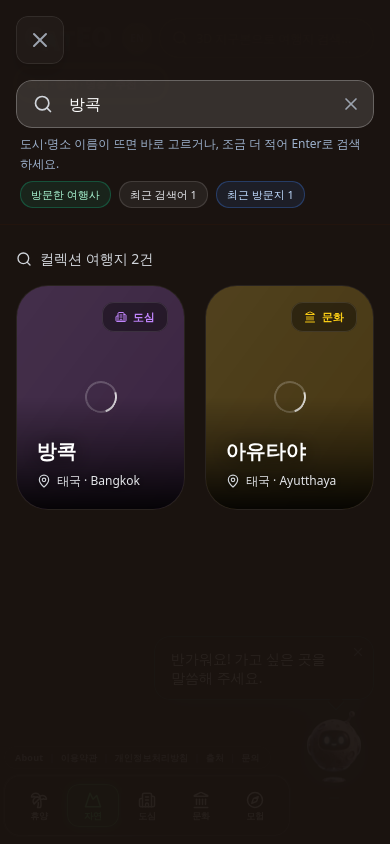
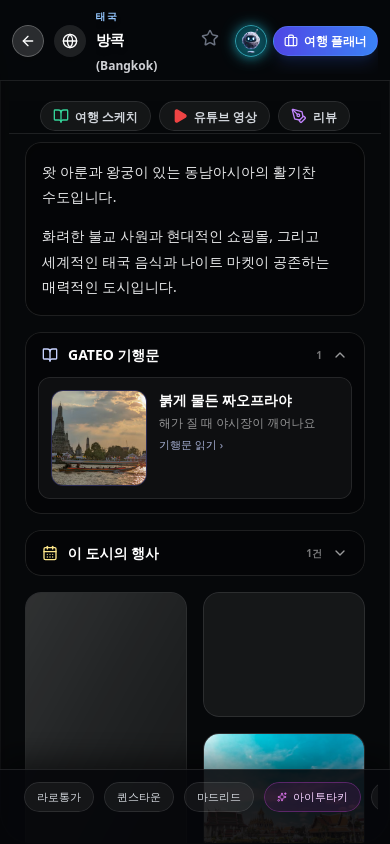
docs(qa): 방콕·제주 장소 개요 샷과 지명 폴백 후보 (#509)
검색 화면으로 찍힌 01 프레임은 *-01-search.png로 옮기고, 장소 페이지가 열린 뒤 카드를 스크롤하기 전의 개요를 다시 받았다. 프로덕션에 깨진 썸네일 기행문은 없어 책 아이콘 샷은 만들지 않았다.

diff --git a/docs/qa/place-travelogue-card-v2/README.md b/docs/qa/place-travelogue-card-v2/README.md
@@ -1,20 +1,54 @@
 # Place travelogue card v2 — QA captures
 
-Broken images across captures: **0**
+Broken images across the original card/article captures: **0**.
 
-| File | Step | Broken imgs |
-| --- | --- | --- |
-| rio-01-place-overview.png | place overview | 0 |
-| rio-02-travelogue-card.png | travelogue card, thumbnail loaded | 0 |
-| rio-03-travelogue-open.png | travelogue body rendered | 0 |
-| bangkok-01-place-overview.png | place overview | 0 |
-| bangkok-02-travelogue-card.png | travelogue card, thumbnail loaded | 0 |
-| bangkok-03-travelogue-open.png | travelogue body rendered | 0 |
-| jeju-01-place-overview.png | place overview | 0 |
-| jeju-02-travelogue-card.png | travelogue card, thumbnail loaded | 0 |
-| jeju-04-no-wrong-region.png | Jeju card slugs are jeju-travelogue only | 0 |
-| jeju-03-travelogue-open.png | travelogue body rendered | 0 |
-| cairo-01-no-visit-story-overlap.png | Cairo visit stories without a duplicate travelogue card row | 0 |
+WebKit 390×844, `deviceScaleFactor: 1`, `VITE_GATEO_PLACE_TRAVELOGUE_CARD=1`, production data read-only. Path for place shots: home → search → open the place. Image requests were not mocked or intercepted.
 
-Captured with `VITE_GATEO_PLACE_TRAVELOGUE_CARD=1`, production data read-only, WebKit 390×844, `deviceScaleFactor: 1`.
-Path: home → search → place overview → card (thumbnail loaded) → travelogue body (loading copy gone).
+| File | Step |
+| --- | --- |
+| rio-01-place-overview.png | Rio place overview |
+| rio-02-travelogue-card.png | travelogue card, thumbnail loaded |
+| rio-03-travelogue-open.png | travelogue body rendered |
+| bangkok-01-search.png | Bangkok search screen (renamed; this frame is not the place page) |
+| bangkok-01-place-overview.png | Bangkok place page, scrollTop 0, before scrolling the card into view |
+| bangkok-02-travelogue-card.png | travelogue card, thumbnail loaded |
+| bangkok-03-travelogue-open.png | travelogue body rendered |
+| jeju-01-search.png | Jeju search screen (renamed; this frame is not the place page) |
+| jeju-01-place-overview.png | Jeju place page, scrollTop 0, before scrolling the card into view |
+| jeju-02-travelogue-card.png | travelogue card, thumbnail loaded |
+| jeju-04-no-wrong-region.png | Jeju card slug is `jeju-travelogue` only |
+| jeju-03-travelogue-open.png | travelogue body rendered |
+| cairo-01-no-visit-story-overlap.png | Cairo visit stories without a duplicate travelogue card row |
+
+`bangkok-01-place-overview.png` and `jeju-01-place-overview.png` were taken after `/place/bangkok` and `/place/jeju` loaded, `[data-search-popover]` was gone, and the place header showed 방콕 / 제주. The place scroller `scrollTop` was 0. The card is already inside the first viewport (top about 332px on Bangkok, 357px on Jeju) because the overview copy is short. The capture did not call `scrollIntoView` on the card.
+
+## Location-name fallback
+
+Queries were the live fallback (`fetchEditorialTraveloguesByLocationName`, anchored `location ILIKE` patterns, editorial + published only) and a broader public read `location ILIKE %name%` on non-deleted public `reports`. Both were read-only against production.
+
+No row in production has location `신제주` or a phrase such as `제주 환승 후 오사카`. Those examples are not in the candidate set.
+
+| Place | Query | id | place_slug | location | Result | Reason |
+| --- | --- | --- | --- | --- | --- | --- |
+| Jeju | anchored `제주` | 67 | jeju | 제주 | accepted | `place_slug` is `jeju` and location is the place token `제주` |
+| Jeju | anchored `Jeju` | — | — | — | no rows | English location name is not stored on any published editorial |
+| Jeju | loose `ILIKE %제주%` | 67 | jeju | 제주 | accepted | same row as the anchored query; no other public report contains `제주` |
+| Bangkok | anchored `방콕` | 63 | bangkok | 방콕 | accepted | `place_slug` is `bangkok` and location is the place token `방콕` |
+| Bangkok | anchored `Bangkok` | — | — | — | no rows | English location name is not stored on any published editorial |
+| Bangkok | loose `ILIKE %방콕%` | 63 | bangkok | 방콕 | accepted | same row; no other public report contains `방콕` |
+| Rio | anchored `리우데자네이루` | 69 | rio-de-janeiro | 리우데자네이루 | accepted | `place_slug` is `rio-de-janeiro` and location is the place token |
+| Rio | anchored `Rio de Janeiro` | — | — | — | no rows | English location name is not stored on any published editorial |
+| Rio | loose `ILIKE %리우%` | 69 | rio-de-janeiro | 리우데자네이루 | accepted | same row; no other public report contains `리우` |
+
+## Book-icon thumbnail fallback
+
+No 390 WebKit shot of the book icon was saved. Producing one would have required mocking or intercepting the image request, which was not done.
+
+What was checked, read-only, on production:
+
+- All 7 published editorials (ids 63–69). None has a null or empty `images` array.
+- All 55 image URLs on those rows. Each GET returned HTTP 200, `Content-Type` `image/*`, and a body larger than 500 bytes (Referer `http://127.0.0.1:5173/`).
+- The latest 21 public, non-deleted `reports` rows. Each has a non-empty http(s) first image. Anon RLS does not expose further public rows.
+- WebKit on the Bangkok and Jeju place pages, same path as the overview shots. The card thumbnail attribute was `data-place-travelogue-thumb="image"`, not `fallback`.
+
+There is no published travelogue or visible public report in production whose thumbnail is missing or dead, so the book-icon state does not occur on a real user path.
